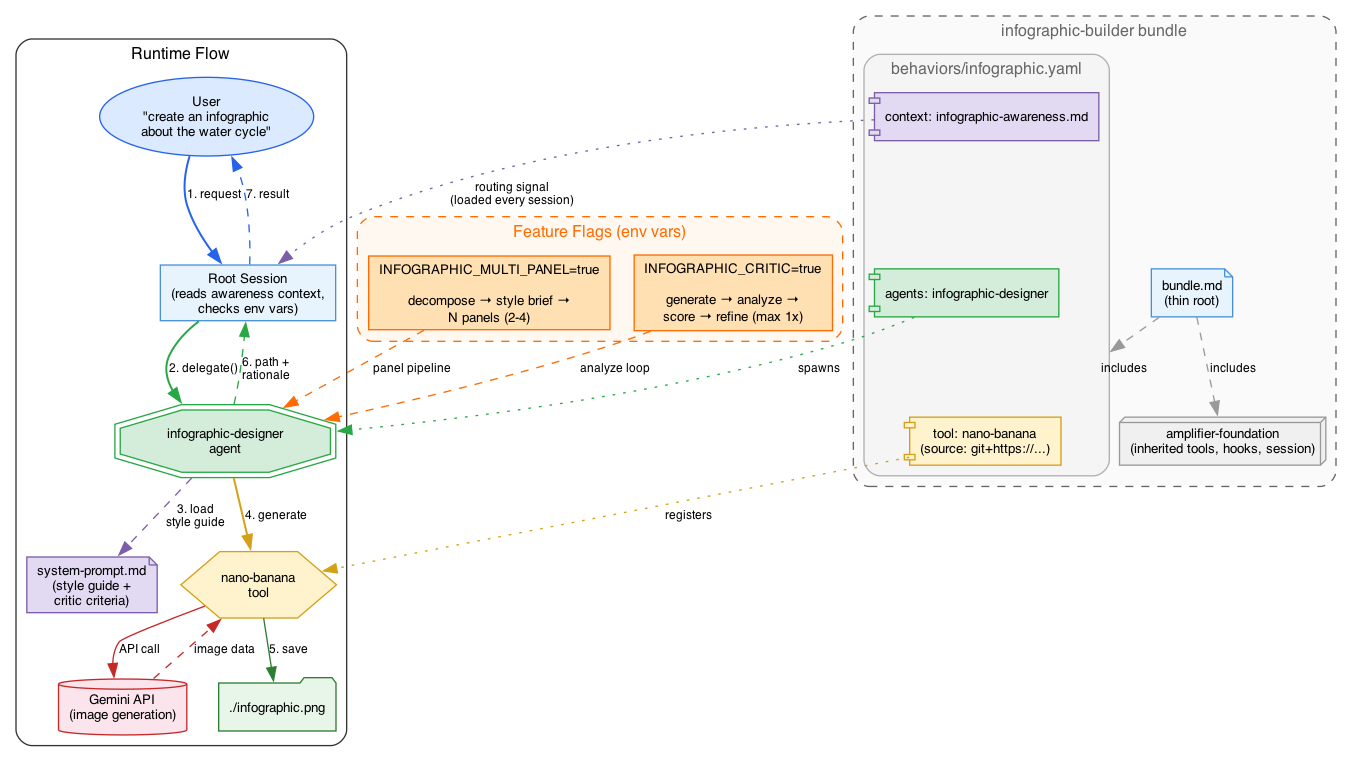
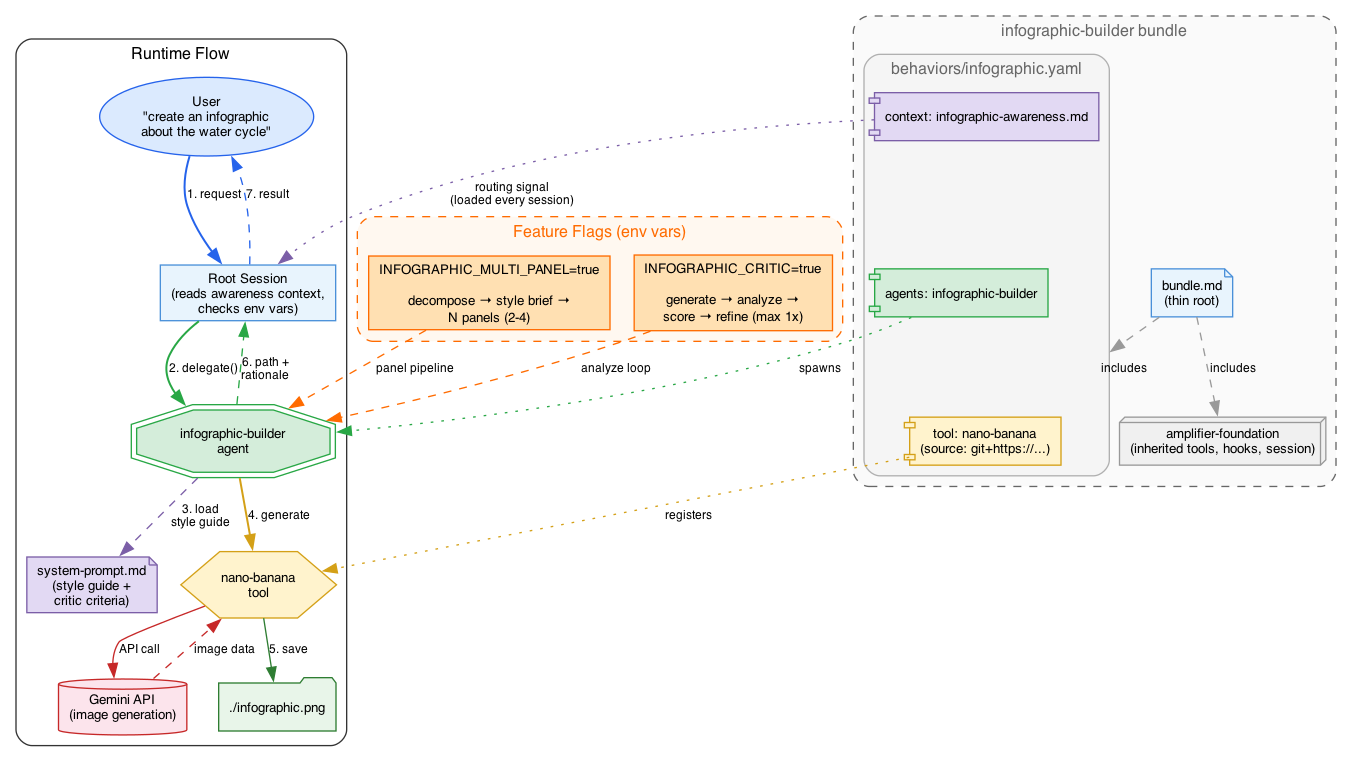
rename: infographic-designer agent to infographic-builder

diff --git a/README.md b/README.md
@@ -4,7 +4,7 @@ Amplifier bundle for AI-powered infographic design and generation.
 
 ## What it does
 
-Say "create an infographic about X" in any Amplifier session. The `infographic-designer` agent constructs a detailed visual prompt and calls nano-banana's `generate` operation to produce an image.
+Say "create an infographic about X" in any Amplifier session. The `infographic-builder` agent constructs a detailed visual prompt and calls nano-banana's `generate` operation to produce an image.
 
 ## Quick start
 
@@ -35,7 +35,7 @@ flowchart TB
         BH["behaviors/infographic.yaml<br/><i>wires tool + agent + context</i>"]
         AW["context/infographic-awareness.md<br/><i>loaded every session</i>"]
         SP["context/prompts/system-prompt.md<br/><i>style guide</i>"]
-        AG["agents/infographic-designer.md<br/><i>loaded only when spawned</i>"]
+        AG["agents/infographic-builder.md<br/><i>loaded only when spawned</i>"]
         B --> BH
         BH --> AW
         BH --> AG
@@ -46,7 +46,7 @@ flowchart TB
         direction TB
         U["User<br/>'create an infographic about X'"]
         RS["Root Session<br/><i>reads awareness context</i>"]
-        DE["infographic-designer agent<br/><i>design + prompt construction</i>"]
+        DE["infographic-builder agent<br/><i>design + prompt construction</i>"]
         NB["nano-banana tool<br/><i>Gemini image generation</i>"]
         IMG["Generated image<br/><i>./infographic.png</i>"]
 
@@ -76,7 +76,7 @@ flowchart TB
 
 ```
 1. User provides data or topic
-2. Root session delegates to infographic-designer agent
+2. Root session delegates to infographic-builder agent
 3. Agent constructs a detailed visual prompt (layout, palette, hierarchy)
 4. Agent calls nano-banana tool with operation: "generate"
 5. Image saved to disk, path returned to user
@@ -94,7 +94,7 @@ infographic-builder/
 |-- behaviors/
 |   +-- infographic.yaml             # wires tool + agent + context
 |-- agents/
-|   +-- infographic-designer.md      # the expert agent (context sink)
+|   +-- infographic-builder.md      # the expert agent (context sink)
 +-- context/
     |-- infographic-awareness.md     # thin pointer loaded every session
     +-- prompts/
@@ -187,7 +187,7 @@ INFOGRAPHIC_CRITIC=true INFOGRAPHIC_MULTI_PANEL=true amplifier run
 
 | Check | What to look for |
 |-------|------------------|
-| Delegation | Root session delegates to `infographic-designer` (not handling it directly) |
+| Delegation | Root session delegates to `infographic-builder` (not handling it directly) |
 | Image output | `.png` file saved to disk at the reported path |
 | Design rationale | Agent explains layout choice, palette, and reasoning |
 | Critic summary | (when flag on) Reports what the critic found and whether it refined |

diff --git a/agents/infographic-builder.md b/agents/infographic-builder.md
@@ -1,6 +1,6 @@
 ---
 meta:
-  name: infographic-designer
+  name: infographic-builder
   model_role: [image-gen, creative, general]
   description: |
     Expert infographic designer with image generation capabilities. Use PROACTIVELY
@@ -18,16 +18,16 @@ meta:
 
     <example>
     user: 'Create an infographic about our Q3 sales funnel'
-    assistant: 'I'll delegate to infographic-designer to design and generate this visual.'
+    assistant: 'I'll delegate to infographic-builder to design and generate this visual.'
     <commentary>
-    A request to create a visual asset directly triggers infographic-designer.
+    A request to create a visual asset directly triggers infographic-builder.
     The agent has the image-gen model role and knows the nano-banana tool.
     </commentary>
     </example>
 
     <example>
     user: 'Turn this data into something visual I can share in a slide deck'
-    assistant: 'I'll use infographic-designer to design a shareable visual from this data.'
+    assistant: 'I'll use infographic-builder to design a shareable visual from this data.'
     <commentary>
     "Visual" + "shareable" signals infographic design work, not just text output.
     </commentary>
@@ -35,9 +35,9 @@ meta:
 
     <example>
     user: 'Make an infographic explaining how photosynthesis works'
-    assistant: 'I'll delegate to infographic-designer to create an educational infographic.'
+    assistant: 'I'll delegate to infographic-builder to create an educational infographic.'
     <commentary>
-    Explanatory visuals about any topic are infographic-designer's domain.
+    Explanatory visuals about any topic are infographic-builder's domain.
     </commentary>
     </example>
 ---

diff --git a/context/infographic-awareness.md b/context/infographic-awareness.md
@@ -1,22 +1,22 @@
 # Infographic Builder
 
 This bundle provides infographic design and generation. The
-`infographic-designer` agent handles prompt construction, style decisions,
+`infographic-builder` agent handles prompt construction, style decisions,
 and image generation end-to-end -- delegate to it directly, no exploration needed.
 
 ## Delegation
 
-Agent name: `infographic-builder:infographic-designer`
+Agent name: `infographic-builder:infographic-builder`
 
 ```
 delegate(
-  agent="infographic-builder:infographic-designer",
+  agent="infographic-builder:infographic-builder",
   instruction="Create an infographic about [topic]. critic: false, multi_panel: false",
   context_depth="none"
 )
 ```
 
-Note: the agent name is `infographic-designer`, not `agents/infographic-designer`.
+Note: the agent name is `infographic-builder`, not `agents/infographic-builder`.
 
 **Delegate when the user says:**
 - "create an infographic about..."
